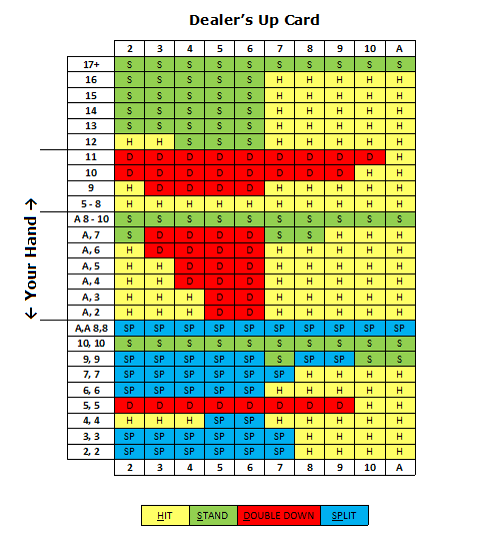
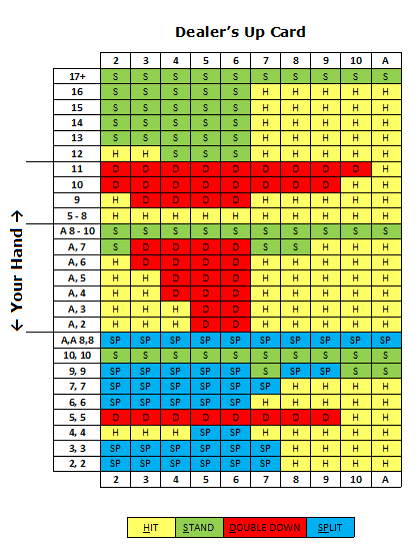
changed cheat sheet and fixed current player total variable from index.js

diff --git a/public/Index.js b/public/Index.js
@@ -6,16 +6,14 @@ const youLoseElement = document.getElementById("youlose")
 const youWinElement = document.getElementById("youwin")
 const cheatSheetButton = document.getElementById("cheat-sheet-button");
 const cheatSheetPic = document.getElementById("cheat-sheet-pic");
-let hits = 0;
+let numberOfCardsInPlayersHand = 0;
 const lossWaitDuration = 500; //ms
 const winWaitDuration = 700; //ms
-// const card1Pic = document.getElementById("card-one-pic");
-// const card2Pic = document.getElementById("card-two-pic");
-// const card3Pic = document.getElementById("card-three-pic");
-// const card4Pic = document.getElementById("card-four-pic");
-// const card5Pic = document.getElementById("card-five-pic");
 const chanceOfWinning = 42; // %
 const chanceOfBeatingTheHouse = 50; // %
+let dealersTotalElement = document.getElementById("dealersHandTotal");
+let playerCurrentHand = 0;
+let dealerCurrentHand = 0;
 
 
 function getCardPic(cardNum) {
@@ -25,10 +23,7 @@ function getCardPic(cardNum) {
     const suits = ["clubs", "diamonds", "hearts", "spades"];
     const suitName = suits[suit - 1]; // Map suit number to name
 
-    const tenType = Math.floor(Math.random() * 4) + 1; // Generate a random number between 1 and 4
-    // Define tenType and file naming convention
-    const tenTypes = ["10", "jack", "queen", "king"];
-    const tenName = tenTypes[tenType - 1]; // Map ten to name
+
 
     // Handle card numbers and return appropriate file name
     switch (cardNum) {
@@ -51,6 +46,10 @@ function getCardPic(cardNum) {
         case 9:
             return `/PNG-cards-1.3/9_of_${suitName}.png`;
         case 10:
+            const tenType = Math.floor(Math.random() * 4) + 1; // Generate a random number between 1 and 4
+            // Define tenType and file naming convention
+            const tenTypes = ["10", "jack", "queen", "king"];
+            const tenName = tenTypes[tenType - 1]; // Map ten to name
             return `/PNG-cards-1.3/${tenName}_of_${suitName}.png`
         default:
             return "/PNG-cards-1.3/invalid_card.png"; // Return a default for invalid card numbers
@@ -62,6 +61,22 @@ function delay(ms) {
     return new Promise((resolve) => setTimeout(resolve, ms));
 }
 
+async function giveDealerCard() {
+    try {
+        const dealerCardResponse = await fetch("/api/" + username + "/dealerCard");
+        if (!dealerCardResponse.ok) throw new Error("Failed to fetch dealer card");
+
+        const dealerCardData = await dealerCardResponse.json();
+        dealerCurrentHand = dealerCardData.card;
+
+        // Update the displayed dealer total in the DOM
+        document.getElementById("dealersHandTotal").textContent = dealerCurrentHand;
+    } catch (error) {
+        console.error("Error updating dealer card:", error);
+    }
+}
+
+
 async function resetHands() {
     try {
         const response = await fetch("/api/" + username + "/resetHands", { method: "POST" });
@@ -70,6 +85,45 @@ async function resetHands() {
         console.log("Hands have been reset.");
     } catch (err) {
         console.error("Error resetting hands:", err);
+    }
+}
+
+async function updateHands() {
+    try {
+        const response = await fetch("/api/" + username + "/currentHands"); 
+        if (!response.ok) throw new Error("Failed to fetch current hands");
+        const data = await response.json();
+        playerCurrentHand = data.playerCurrentHand;
+        dealerCurrentHand = data.dealerCurrentHand;
+
+    } catch (err) {
+        console.error("Error updating hands:", err);
+    }
+}
+
+async function givePlayerCard() {
+    try {
+        numberOfCardsInPlayersHand++;
+        // Fetch the updated player card
+        const playerCardResponse = await fetch("/api/" + username + "/playerCard");
+        if (!playerCardResponse.ok) throw new Error("Failed to fetch player card");
+        const playerCardData = await playerCardResponse.json();
+        console.log("Player card data:", playerCardData); // Debugging line
+
+        let newCardPic = getCardPic(playerCardData.card);
+        const cardElement = document.getElementById(`card-${numberOfCardsInPlayersHand}-pic`);
+        
+        if (cardElement) {
+            cardElement.src = newCardPic;
+            cardElement.style.display = "block";
+            await updateHands();
+            console.log("numberOfCardsInPlayersHand: " + numberOfCardsInPlayersHand);
+            console.log("player current total: " + playerCurrentHand);
+        } else {
+            console.error(`Element with ID card-${numberOfCardsInPlayersHand}-pic not found in the DOM.`);
+        }
+    } catch (error) {
+        console.error("Error in givePlayerCard:", error);
     }
 }
 
@@ -85,7 +139,7 @@ async function sendCheatSettingToBrowser() {
 }
 
 async function lossOccurance() {
-    hits = 0;
+    numberOfCardsInPlayersHand = 0;
     youLoseElement.style.display = "block"
     standButton.style.display = "none"
     hitButton.style.display = "none"
@@ -96,7 +150,7 @@ async function lossOccurance() {
 }
 
 async function winOccurance() {
-    hits = 0;
+    numberOfCardsInPlayersHand = 0;
     youWinElement.style.display = "block"
     hitButton.style.display = "none"
     standButton.style.display = "none"
@@ -114,9 +168,14 @@ document.addEventListener("DOMContentLoaded", async () => {
 
         const data = await response.json();
 
-        // Update the values in the HTML
-        // playerScoreElement.textContent = data.playerCurrentHand;
-        // dealerScoreElement.textContent = data.dealerCurrentHand;
+    if (numberOfCardsInPlayersHand == 0) {
+        giveDealerCard(); // give the dealer 1 card off the rip
+        givePlayerCard();
+        await delay(100);
+        givePlayerCard(); //give player 2 cards off the rip
+    }
+
+
     } catch (error) {
         console.error("Error fetching current hands:", error);
     }
@@ -166,46 +225,24 @@ if (hitButton) {
     hitButton.addEventListener("click", async () => {
         try {
 
-            hits++;
+            givePlayerCard();
 
-            // Fetch the updated player card
-            const playerCardResponse = await fetch("/api/" + username + "/playerCard");
-            if (!playerCardResponse.ok) throw new Error("Failed to fetch player card");
+            updateHands();
 
-            const playerCardData = await playerCardResponse.json();
-            console.log("Player card data:", playerCardData); // Debugging line
 
-            // playerScoreElement.textContent = playerCardData.card;
-            let newCardPic = getCardPic(playerCardData.card)
-            document.getElementById(`card-${hits}-pic`).src = newCardPic;
-            document.getElementById(`card-${hits}-pic`).style.display = "block";
-
-            const response = await fetch("/api/" + username + "/currentHands"); 
-            if (!response.ok) throw new Error("Failed to fetch current hands");
-            const data = await response.json();
-            playerCurrentHand = data.playerCurrentHand;
     
 
             if (playerCurrentHand > 21) { 
                 lossOccurance();
 
-            } else if (hits == 5) {
+            } else if (numberOfCardsInPlayersHand == 5) {
                 winOccurance(); // if after 5 hits the hand is less than 21 insta win (5-Card Charlie rule)
 
             } else {
-                // Fetch the updated dealer card
-                const dealerCardResponse = await fetch("/api/" + username + "/dealerCard");
-                if (!dealerCardResponse.ok) throw new Error("Failed to fetch dealer card");
 
-                const dealerCardData = await dealerCardResponse.json();
-                
-                // dealerScoreElement.textContent = dealerCardData.card;
+                giveDealerCard();
 
-                // retrieve the total of the current Dealers hand after the new card has been introduced
-                const response = await fetch("/api/" + username + "/currentHands"); 
-                if (!response.ok) throw new Error("Failed to fetch current hands");
-                const data = await response.json();
-                dealerCurrentHand = data.dealerCurrentHand;
+                updateHands();
 
                 if (dealerCurrentHand > 21) {   // see if the dealers hand is allowed
                     winOccurance();

diff --git a/public/index.css b/public/index.css
@@ -1,6 +1,7 @@
 body {
     /* ../ means you go up one directory */
-    background-image: url('/poker-table-background.avif');
+    background-image: url('/bg_green.png');
+    background-size: cover;
 }
 
 .button-container {
@@ -158,4 +159,10 @@ body {
 
 #player {
     bottom: 10%;
+}
+
+#dealersHandTotal{
+    left: 50%;
+    text-align: center;
+    color: yellow;
 }

diff --git a/views/index.html b/views/index.html
@@ -31,8 +31,10 @@
             </div>    
             <h3 class="username" id="username">[username]</h3>
 
+
         </div>  
     </div>
+    <h3 id="dealersHandTotal"> 0 </h3>
     <div class="outcome">
         <div class="youwin" id="youwin">
             YOU WIN!
